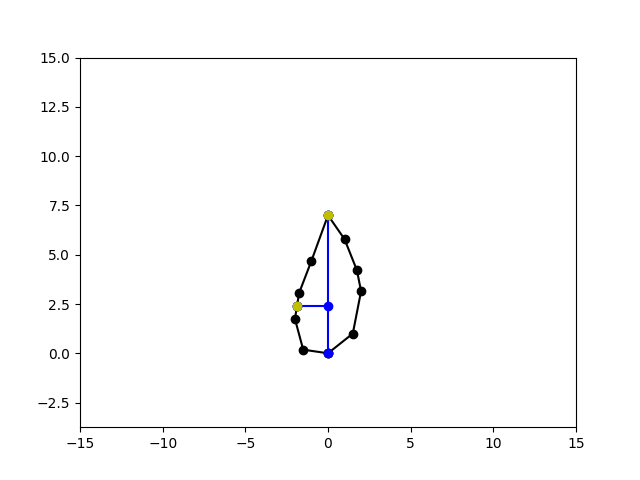
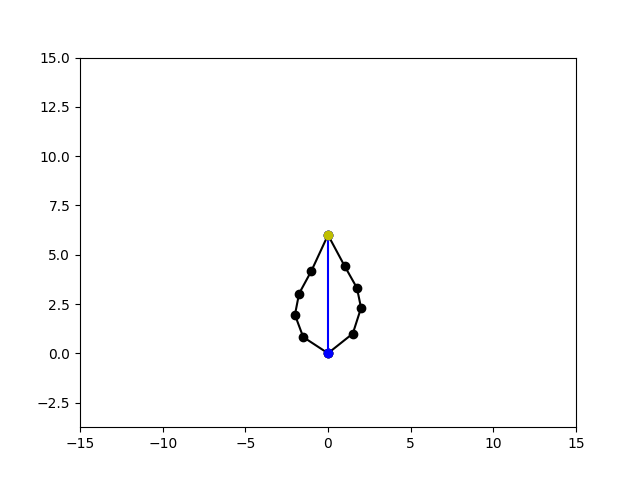
added normalized range fit for cp_growth, so cp grows quickest

Changed region(s): [[0.4375, 0.4375, 0.5938, 0.6875], [0.4688, 0.6875, 0.5, 0.75]]

diff --git a/Prototype1/growth.py b/Prototype1/growth.py
@@ -11,6 +11,17 @@ def normalize_vec(vec):
     norm_vec = vec / np.sqrt((vec ** 2).sum())
     return norm_vec
 
+def normalize_to_range(vec, old_range, fit_range):
+    """Normalizes a vector to a given range. as adapted from sklearn:
+    X_std = (X - X.min(axis=0)) / (X.max(axis=0) - X.min(axis=0))
+    X_scaled = X_std * (max - min) + min"""
+    print(f"before: {vec}")
+
+    vec_std = (vec - old_range[0]) / (old_range[1] - old_range[0])
+    vec_scaled = vec_std * (fit_range[1] - fit_range[0]) + fit_range[0]
+
+    print(f"after in range {fit_range}: {vec_scaled}")
+    return vec_scaled
 
 def vector_projection(a, b):
     """Calculates the vector projection of a onto b."""
@@ -96,16 +107,20 @@ def hard_coded_cp_addition(leaf):
     return leaf
 
 
-def calculate_gr(dist, dir, gr):
-    """multiply direction * gr * distance"""
+def calculate_gr(dist, dir, gr, cp_th):
+    """multiply direction * gr * distance and
+    normalize this to half the max distance."""
 
-    # TODO ! Normalize distance from 0 to 1 ? if necessary for precision later
-    temp_growth = (gr * dir) / dist
+    # TODO ! improve fit?
+    old_range = [-cp_th, cp_th]
+    fit_range = [-cp_th/2, cp_th/2]
+
+    temp_growth = (gr * normalize_to_range(dir, old_range, fit_range)) / dist
     # print(f"dist { dist} temp_growth: {temp_growth}")
     return temp_growth
 
 
-def expand_veins(leaf, gr, interpolation):
+def expand_veins(leaf, gr, interpolation, cp_th):
     """Expand the cp on margin in the direction of their veins
     by a growth rate (gr)"""
     cp_indicators, cp_index = init_cp_indicators(leaf, interpolation)
@@ -136,8 +151,8 @@ def expand_veins(leaf, gr, interpolation):
             next_vein_dir = normalize_vec(exp_vein.get_vector())
 
             # add to array of gr values
-            temp_prev = calculate_gr(prev_dist, prev_vein_dir, gr)
-            temp_next = calculate_gr(next_dist, next_vein_dir, gr)
+            temp_prev = calculate_gr(prev_dist, prev_vein_dir, gr, cp_th)
+            temp_next = calculate_gr(next_dist, next_vein_dir, gr, cp_th)
             if cp_index == []:
                 gr_total[(prev_cp_i + 1):len(cp_indicators) - 1] = temp_next + temp_prev
                 leaf.margin.grow(gr_total)

diff --git a/Prototype1/Main.py b/Prototype1/Main.py
@@ -5,7 +5,7 @@ import matplotlib.pyplot as plt
 
 STEPS = 15 #simulation steps
 INTERPOLATION = 3 #number of points to interpolate between margin points (min 1)
-GR = 0.4
+GR = 0.2
 CP_TH = 8.5
 KV = 1 #vasculatory auxin movement rate
 LEAF_PATH = "../img/plot_data/" #where to save plot data
@@ -17,7 +17,7 @@ def main():
     vis.plot_leaf(leaf, 15, LEAF_PATH, BASE_NAME, 0)
     for i in range(STEPS):
         # growstep driven by expansion of veins
-        expand_veins(leaf, GR, INTERPOLATION)
+        expand_veins(leaf, GR, INTERPOLATION, CP_TH)
         # modification of morphogen distribution
 
         # new convergence points & possible new morphogen distribution
